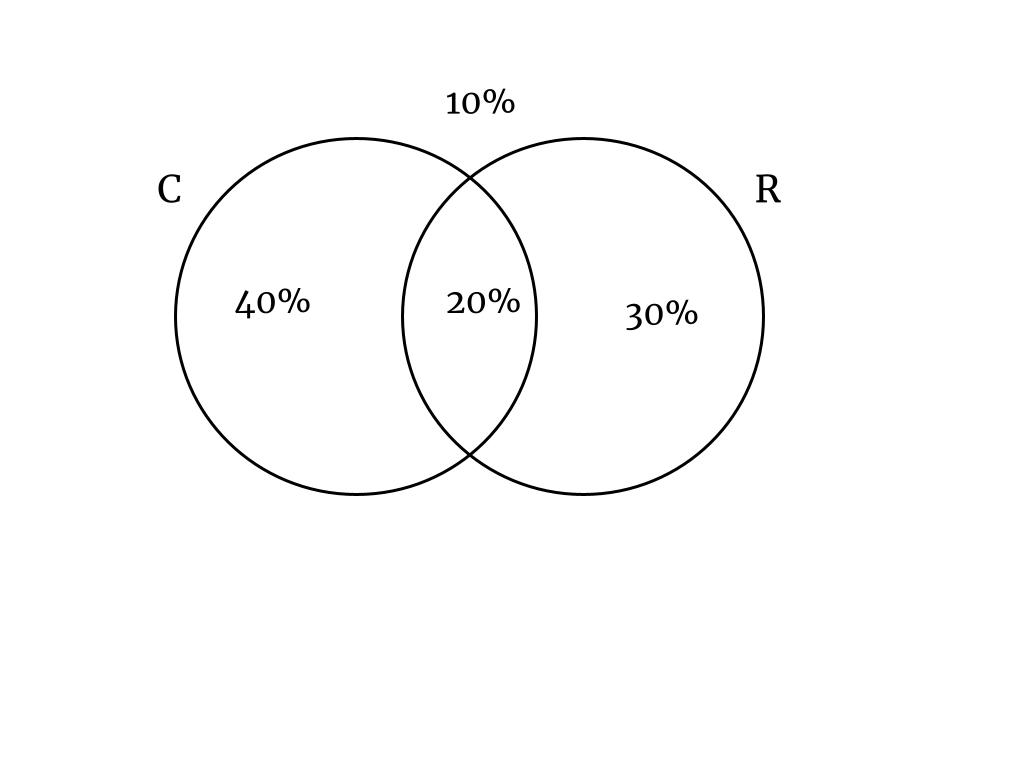
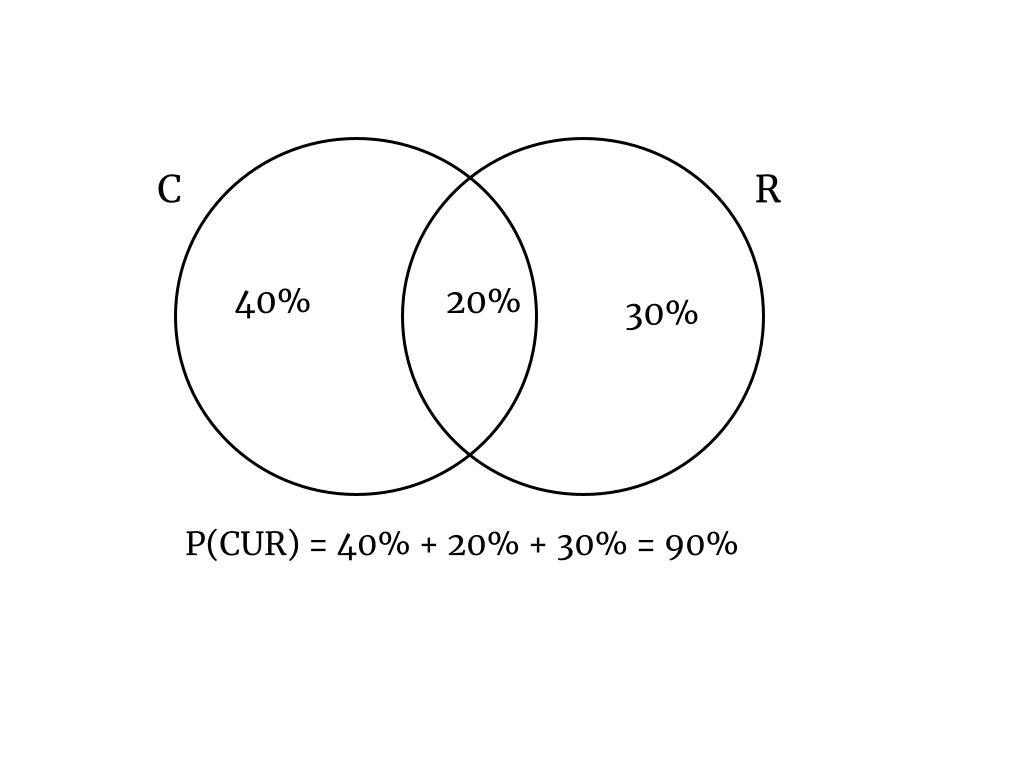
240402

Changed region(s): [[0.1875, 0.6875, 0.7188, 0.75], [0.4375, 0.0938, 0.5, 0.1562]]

diff --git a/docs/Probability & Statistics/probability_model.md b/docs/Probability & Statistics/probability_model.md
@@ -99,12 +99,19 @@ Esto significa que se suma la probabilidad de $$A$$ y $$B$$, pero se resta la pr
     $$P(A \cup B) = \frac{3}{6} + \frac{2}{6} - \frac{1}{6} = \frac{4}{6} = \frac{2}{3}$$
 
 3. **Sala de espera**
-   - En la sala de espera de un consultorio medico, el dos-tercios de los pacientes toma cafe, el 50% lee revistas y unicamente el 20% delas personas toma cafe mientras lee revistas. Si se selecciona un paciente al azar ¿cual es la probabilidad de que tome cafe o lea revistas?
+   - En la sala de espera de un consultorio medico, el 60% de los pacientes toma cafe, el 50% lee revistas y unicamente el 20% delas personas toma cafe mientras lee revistas. Si se selecciona un paciente al azar ¿cual es la probabilidad de que tome cafe o lea revistas?
    - C = pacientes que toman cafe
    - R = Pacientes que leen revistas
 
+   $$P(C\cupR) = P(C) + P(R) - P(PUR)$$
+   $$P(C\cupR) = 60\% + 50\% - 20\%
+   $$P(C\cupR) = 90\%
+
 
    ![Ejemplo Suma](https://fer78docs.github.com/assets/images/ejemplo_suma.jpg)
+
+    
+
 
 
 
